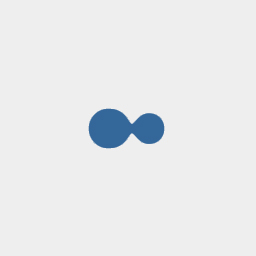
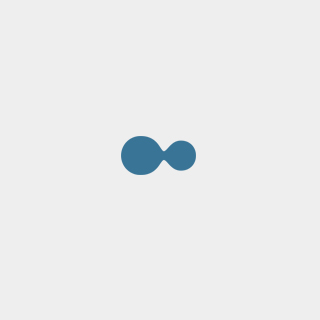
Resized tile images, renamed environment listings page

Changed region(s): [[0.3438, 0.4062, 0.6562, 0.5938]]

diff --git a/views/user-profile.php b/views/user-profile.php
@@ -27,10 +27,10 @@
             foreach($environments as $env): ?>
             <a href="/user/<?= $user->username; ?>/env/<?= $env->envId; ?>">
                 <div class="user-environment quarter-margin mblue">
+                    <img src="/img/placeholder.gif">
 <!--                 <img src="http://maps.googleapis.com/maps/api/staticmap?center=<?= $env->latitude; ?>,<?= $env->longitude; ?>&amp;zoom=11&amp;size=640x640&amp;scale=1&amp;maptype=satellite&amp;sensor=false&amp;key=AIzaSyCNlx7Q6EFJ2nlJfkAnMIsCm94fdSzaqf4">
  -->                 <p><?= $env->timestamp; ?></p>
-                  <p><?= $env->name; ?></p>
-
+                    <p><?= $env->name; ?></p>
 <!--                <p><?= $env->latitude; ?></p>
                     <p><?= $env->longitude; ?></p> -->
                 </div>
